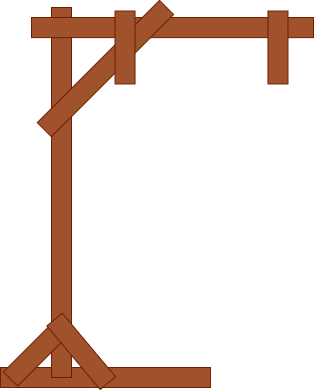
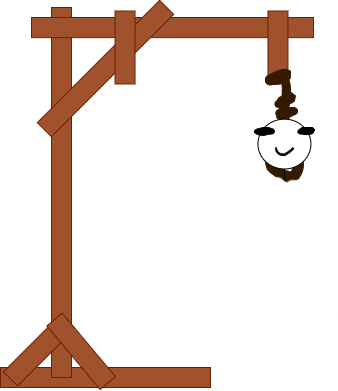
new images and lives lost update

diff --git a/script.js b/script.js
@@ -22,11 +22,11 @@ const words = {
     5: ["website", "technology"]
 };
 
-let livesLeft = 6;
-// let guessedLetter = '';
-let guessedLetterArray = [];
-let wrongGuesses = 0;
-let answer = '';
+// let livesLeft = 6;
+// // let guessedLetter = '';
+// let guessedLetterArray = [];
+// let wrongGuesses = 0;
+// let answer = '';
 
 
 function getRandomWord() {
@@ -38,17 +38,20 @@ function getRandomWord() {
 }
 
 function initializeGame(){
+    answer = '';
     guessedLetterArray = []
     wrongGuesses =0;
     livesLeft =6;
     level = 1;
-    updateHangmanImage();
-    
-    // wrongLettersArea.innerText='';
+    wrongLettersArea.innerText= '';
+    document.getElementById('letterInput').disabled = false;
     document.getElementById('letterInput').value = '';
     document.getElementById('levels_selector').value = level;
     answer = getRandomWord();
     getDisplayWord();
+    updateHangmanImage();
+
+    // printGuessedLetter();
 
 }
 
@@ -67,12 +70,26 @@ function getDisplayWord() {
     document.getElementById('letterInput').focus();
 }
 
+function stillAlive(){
+    if (livesLeft > 0){
+        document.getElementById('letterInput').disabled = false;
+    }
+    else{
+    document.getElementById('letterInput').disabled = true;
+}
+}
+
+
 function updateHangmanImage(){
     document.getElementById('hangmanImage').src = './images/'+ wrongGuesses + '.png';
 }
 
 function isValid(letter){
     return guessedLetterArray.indexOf(letter) === -1;
+}
+
+function isWrong(guessedLetter){
+    return !answer.includes(guessedLetter);
 }
 
 function getGuessedLetter(){
@@ -87,11 +104,21 @@ function printGuessedLetter(){
         guessedLetterArray.push(guessedLetter);
         wrongLettersArea.innerText = guessedLetterArray.join(', ');
         getDisplayWord();
+        if(isWrong(guessedLetter))
+        {
+            wrongGuesses++;
+            livesLeft--;
+        }
+        if(stillAlive()){
+            document.getElementById('letterInput').disabled = true;
+        }
+
     }
     else{
         document.getElementById('letterInput').value = '';
         alert("Letter " + guessedLetter.toUpperCase() + " has already been guessed");
     }
+    updateHangmanImage();
     document.getElementById('letterInput').value = '';
     document.getElementById('letterInput').focus();
 }

diff --git a/index.html b/index.html
@@ -44,7 +44,7 @@
       <div class="game-content">
         
         <div class="hangmanImage-container">
-          <img id="hangmanImage" src="images/1.png" alt="Hangman" />
+          <img id="hangmanImage" src="images/0.png" alt="Hangman" />
         </div>
         <div class="right-content">
           <div class="wordContainer">
